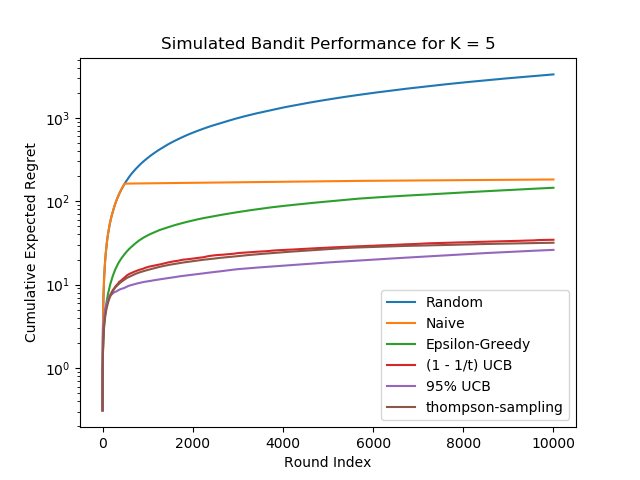
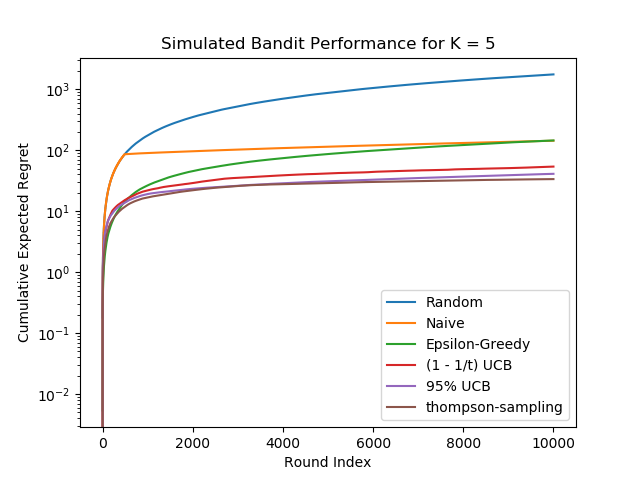
update

diff --git a/bandit_simulations.py b/bandit_simulations.py
@@ -4,14 +4,19 @@ import pymc as pm
 # from mpltools import style # uncomment for prettier plots
 # style.use(['ggplot'])
 
+# define number of samples and number of choices
+num_samples = 10000
+K = 5  # number of arms
+number_experiments = 100
+CTRs_that_generated_data = np.tile(np.random.rand(K), (num_samples, 1))
+
 '''
 function definitions
 '''
 # generate all bernoulli rewards ahead of time
 def generate_bernoulli_bandit_data(num_samples,K):
-    CTRs_that_generated_data = np.tile(np.random.rand(K),(num_samples,1))
     true_rewards = np.random.rand(num_samples,K) < CTRs_that_generated_data
-    return true_rewards,CTRs_that_generated_data
+    return true_rewards
 
 # Thompson sampling
 
@@ -85,6 +90,8 @@ def run_bandit_dynamic_alg(true_rewards,CTRs_that_generated_data,choice_func):
     estimated_beta_params[:,0] += prior_a # allocating the initial conditions
     estimated_beta_params[:,1] += prior_b
     regret = np.zeros(num_samples) # one for each of the 3 algorithms
+    god_regret = np.zeros(num_samples)  # one for each of the 3 algorithms
+    best_bandit_idx = np.argmax(np.max(CTRs_that_generated_data, 0))
 
     for i in range(0,num_samples):
         # pulling a lever & updating estimated_beta_params
@@ -99,25 +106,25 @@ def run_bandit_dynamic_alg(true_rewards,CTRs_that_generated_data,choice_func):
         estimated_beta_params[this_choice,update_ind] += 1
         
         # updated expected regret
-        regret[i] = np.max(CTRs_that_generated_data[i,:]) - CTRs_that_generated_data[i,this_choice]
+        regret[i] = CTRs_that_generated_data[i, best_bandit_idx] - \
+            CTRs_that_generated_data[i, this_choice]
+        god_regret[i] = np.max(CTRs_that_generated_data[i, :]) - \
+            CTRs_that_generated_data[i, this_choice]
 
     cum_regret = np.cumsum(regret)
+    god_cum_regret = np.cumsum(god_regret)
 
     return cum_regret
 
 '''
 main code
 '''
-# define number of samples and number of choices
-num_samples = 10000
-K = 5 # number of arms
-number_experiments = 100
 
 regret_accumulator = np.zeros((num_samples,6))
+
 for i in range(number_experiments):
-    print("Running experiment:", i+1)
-    true_rewards, CTRs_that_generated_data = generate_bernoulli_bandit_data(
-        num_samples, K)
+    print("Running experiment:", i+1)    
+    true_rewards = generate_bernoulli_bandit_data(num_samples, K)
     regret_accumulator[:, 0] += run_bandit_dynamic_alg(
         true_rewards, CTRs_that_generated_data, random)
     regret_accumulator[:, 1] += run_bandit_dynamic_alg(
